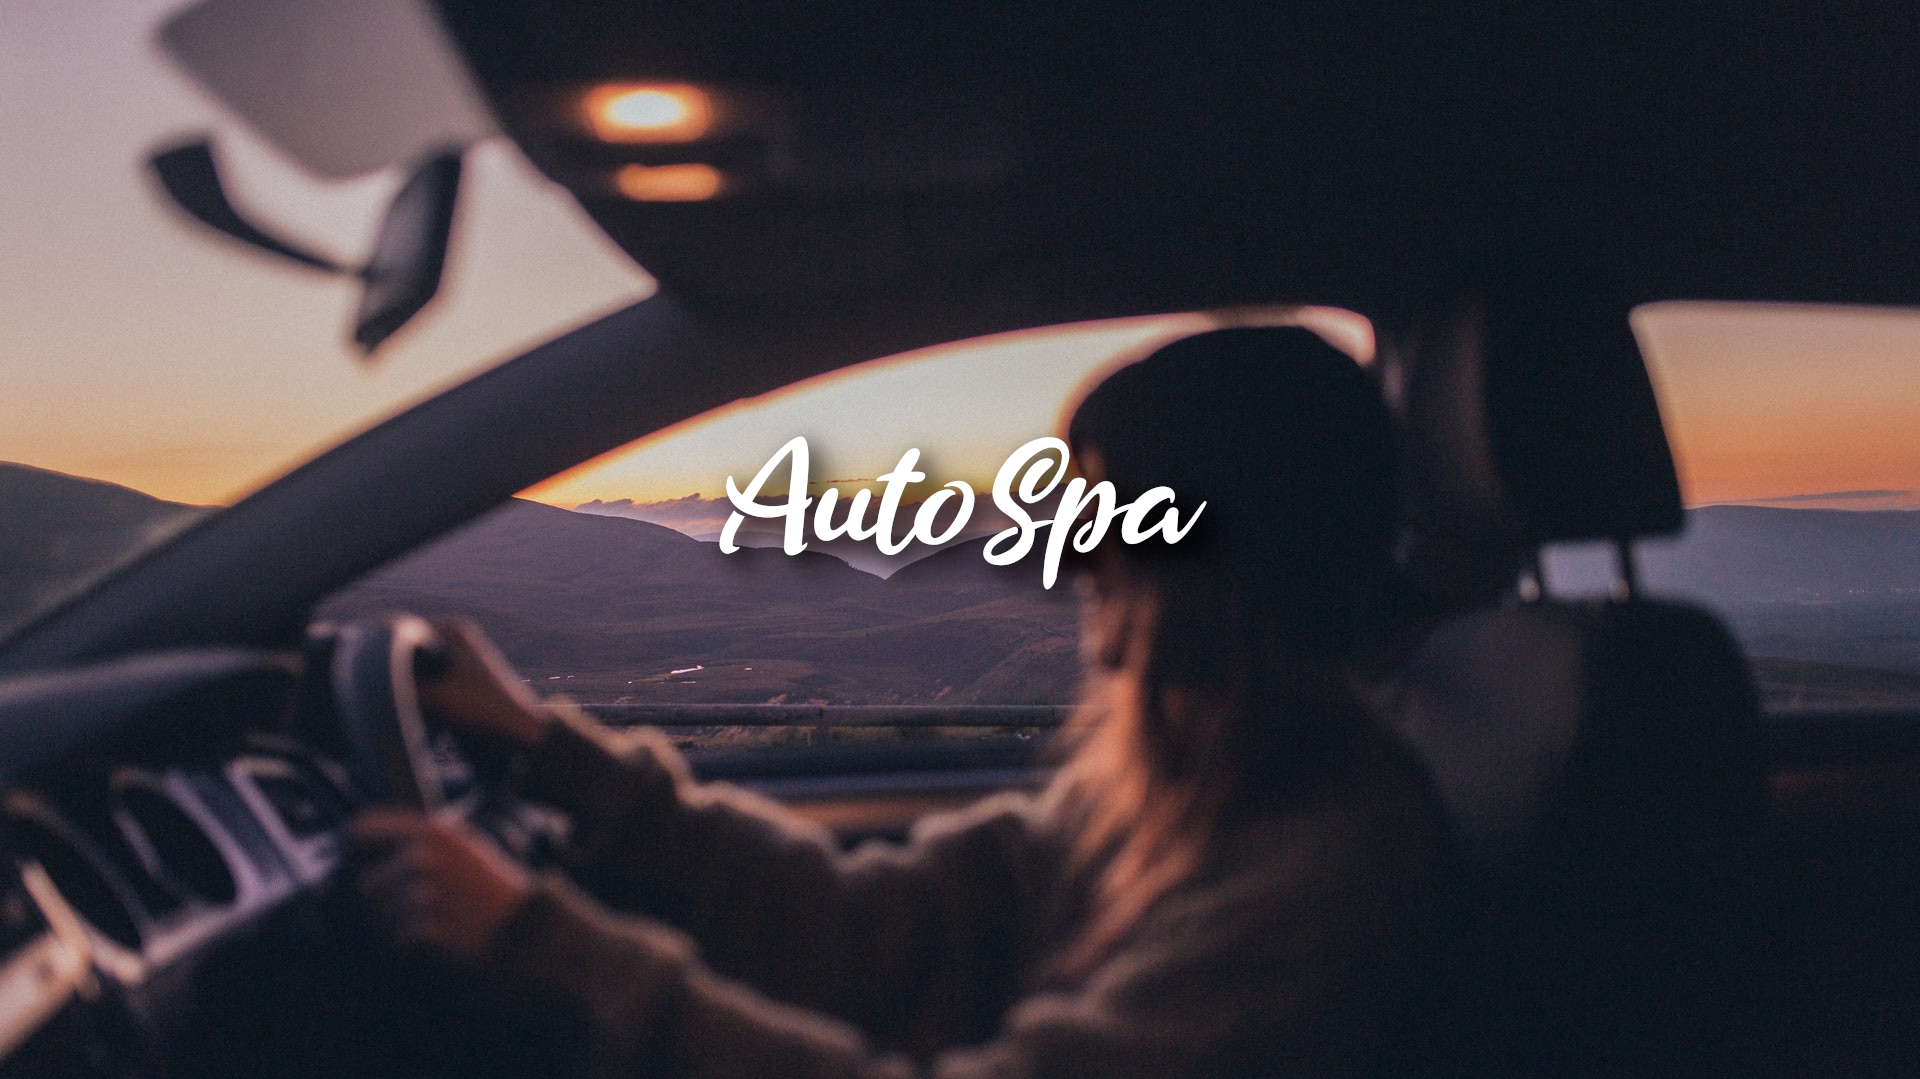
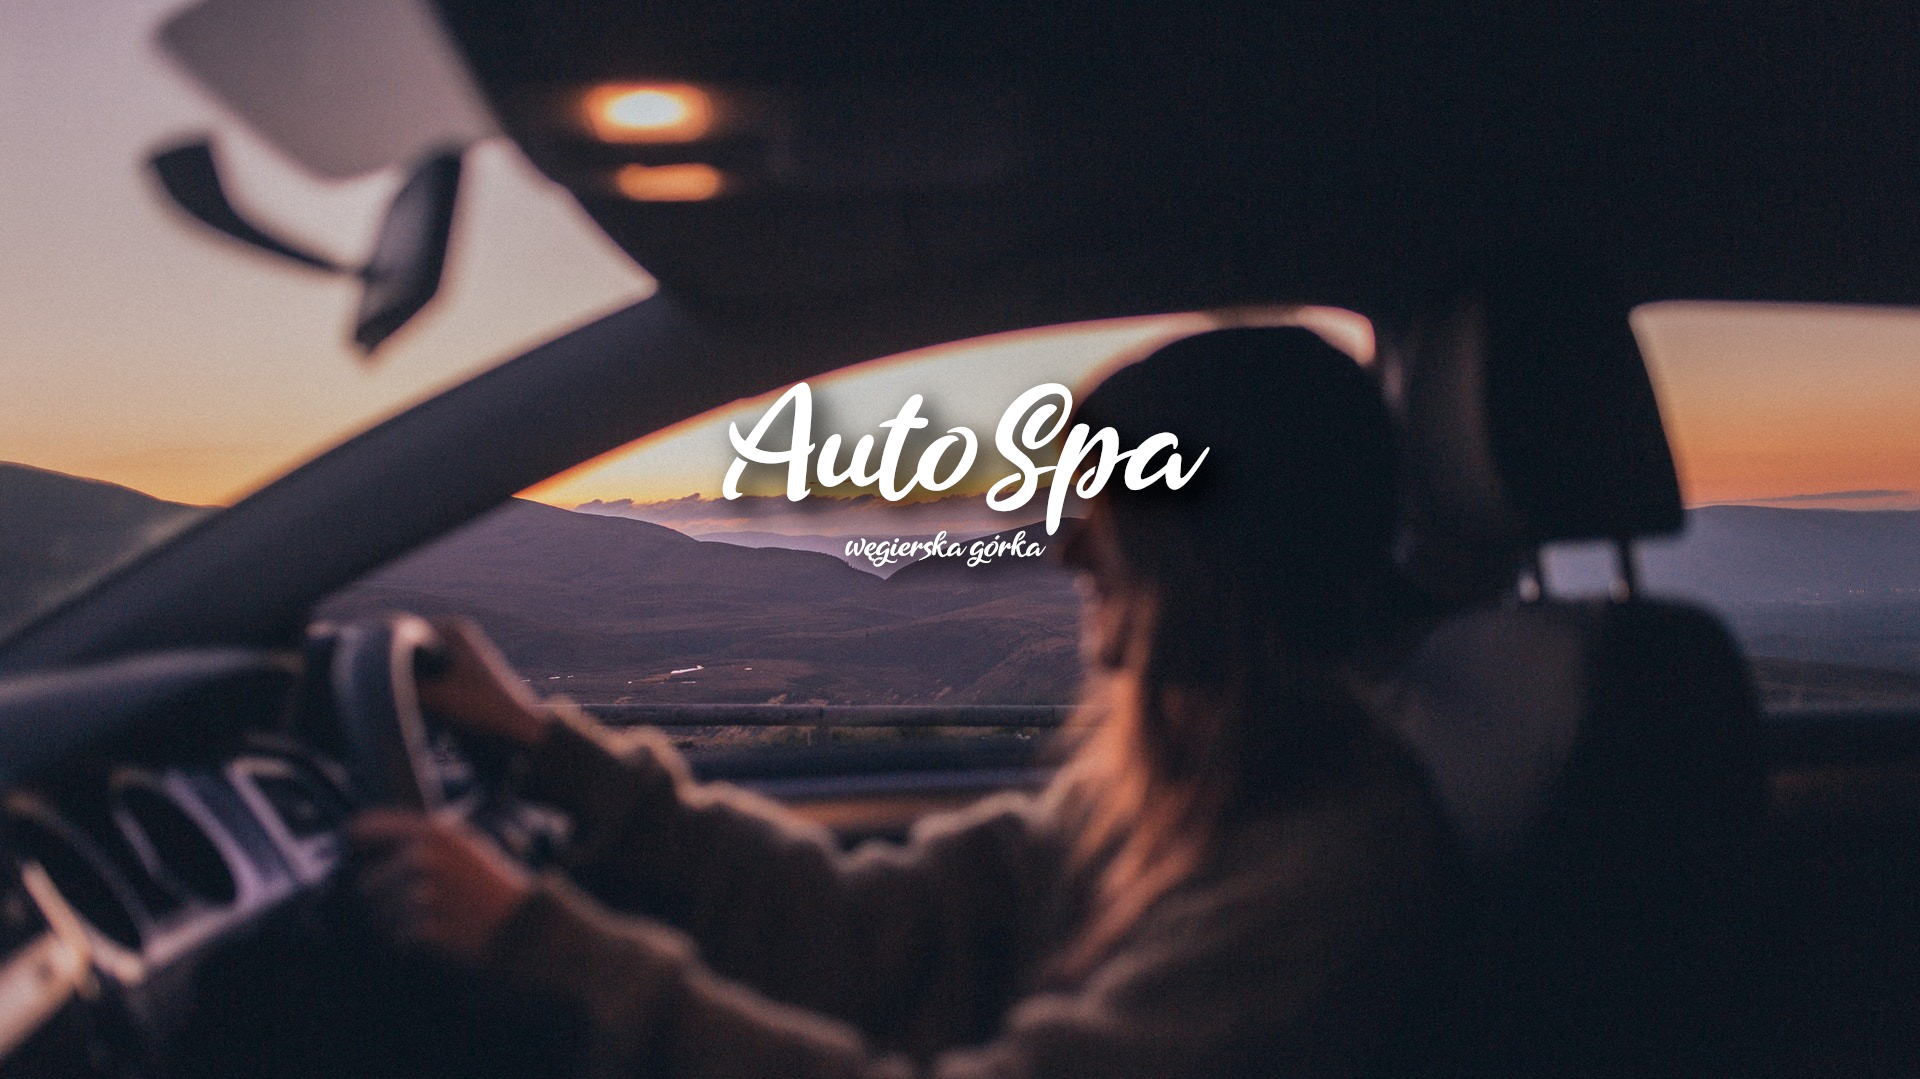
content,fix,bg

Changed region(s): [[0.375, 0.3364, 0.625, 0.5505]]

diff --git a/index.html b/index.html
@@ -4,7 +4,10 @@
     <meta charset="UTF-8" />
     <meta http-equiv="X-UA-Compatible" content="IE=edge" />
     <meta name="viewport" content="width=device-width, initial-scale=1.0" />
-    <title>AutoSpa</title>
+    <title>Myjnia AutoSpa | Węgierska Górka</title>
+    <link rel="icon" 
+      type="image/png" 
+      href="img/favicon.png">
     <link rel="preconnect" href="https://fonts.gstatic.com" />
     <link
       href="https://fonts.googleapis.com/css2?family=Abel&family=Montserrat:wght@400&display=swap"
@@ -54,9 +57,9 @@
             <h2 class="item-title">Pasja</h2>
             <hr />
             <p>
-              To nie tylko nasza praca, motoryzacja to nasz sposob bycia,
-              oddajac swoj pojazd w nasze rece mozesz byc pewny, ze zostanie on
-              czysty i bezpieczny.
+              To nie tylko nasza praca, z motoryzajcą jesteśmy związani na codzień, nie musisz 
+              się bać o swój samochód będzie on traktowany z należytym szacunkiem. Jesteśmy otwarci na nowe 
+              technologie, używamy nowych gąbek, szczotek, wiaderek oraz używamy najwyższej klasy kosmetyków i chemii samochodowej.
             </p>
           </div>
           <div class="item item2">
@@ -64,9 +67,10 @@
             <h2 class="item-title">Profesjonalizm</h2>
             <hr />
             <p>
-              Idziemy z postepem technologii, stosujemy najnowoczesniejsza
-              chemie oraz technologie pozwalajace naszym wykwalifikowanym
-              doprowadzić twoj pojazd do harmonicznej czystosci.
+              Chemia i kosmetyki firmy RRCustoms, topowa polska firma, która posiada potężną
+              gamę nowoczesnej chemii, której używają największe studia detailingowe w polsce.
+              Oprócz tego posiadamy młodą, wykształconą kadrę! Są to ludzie z pasją do motoryzacji,
+              zadbają więc o każdy najmniejszy szczegół.
             </p>
           </div>
           <div class="item item3">
@@ -74,11 +78,9 @@
             <h2 class="item-title">Zaangażowanie</h2>
             <hr />
             <p>
-              Tez jestesmy ludzmi! Spokojnie możesz z nami porozmawiac, to
-              naprade ulatwia nam prace, jezeli poznamy wymagania klienta
-              jestesmy w stanie bardziej skupic sie na rzeczch, na ktorych
-              zalezt Tobie! Jestesmy przyjazni i mozesz do nas uderzac z kazdym
-              prblemem :).
+              Jesteśmy firmą której zależy na kontakcie z klientem, dlatego też personalizować można 
+              niemal każdą usługę pod klienta. Oprócz tego można po prostu z nami normalnie porozmawiać,
+              pomożemy w doborze usługi oraz doradzimy jak dbać o auto w przyszłosci aby dłużej zachowało swój blask!
             </p>
           </div>
         </div>
@@ -115,7 +117,7 @@
           </tr>
         </table>
         <p class="text-disclaimer">
-          Jeżeli na liśnie nie widnieje poszukiwana przez ciebie usługa
+          Jeżeli na liście nie widnieje poszukiwana przez ciebie usługa
           skontaktuj sie telefonicznie lub na miejscu aby spersonalizować swoją
           usługę
         </p>
